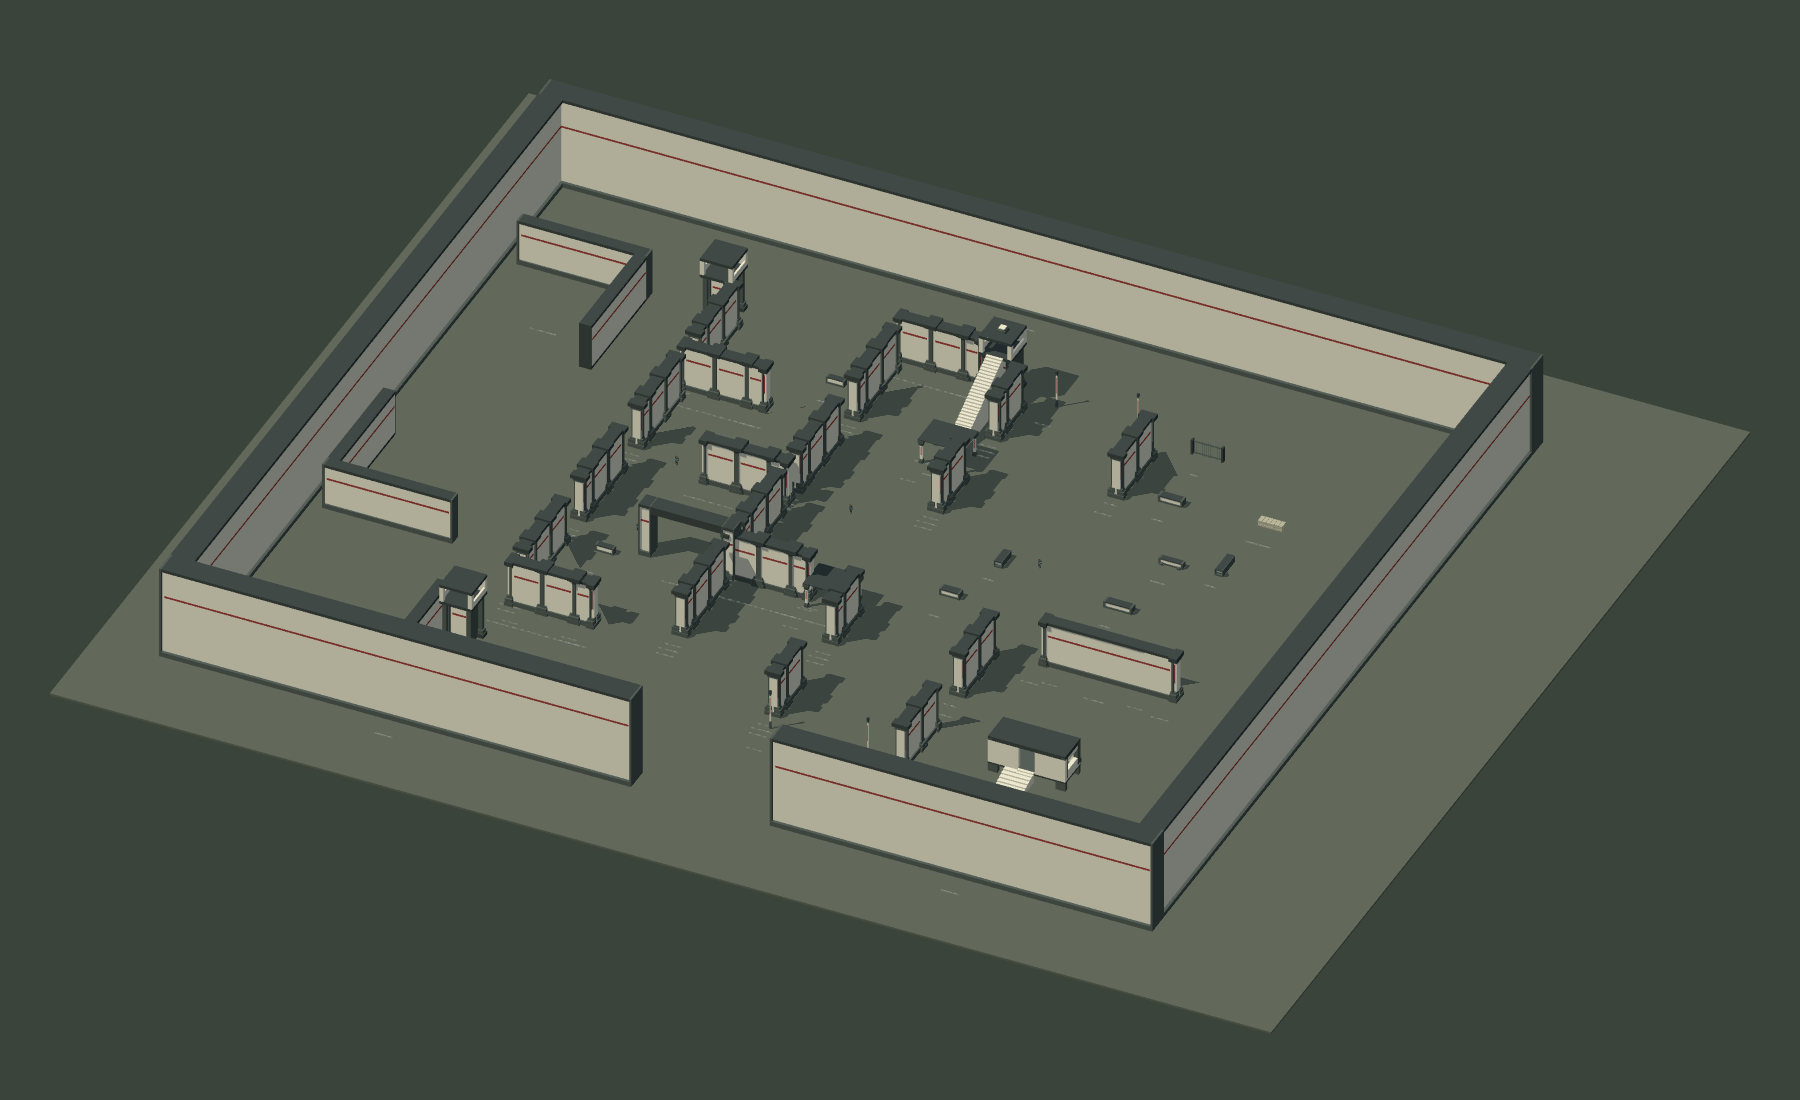
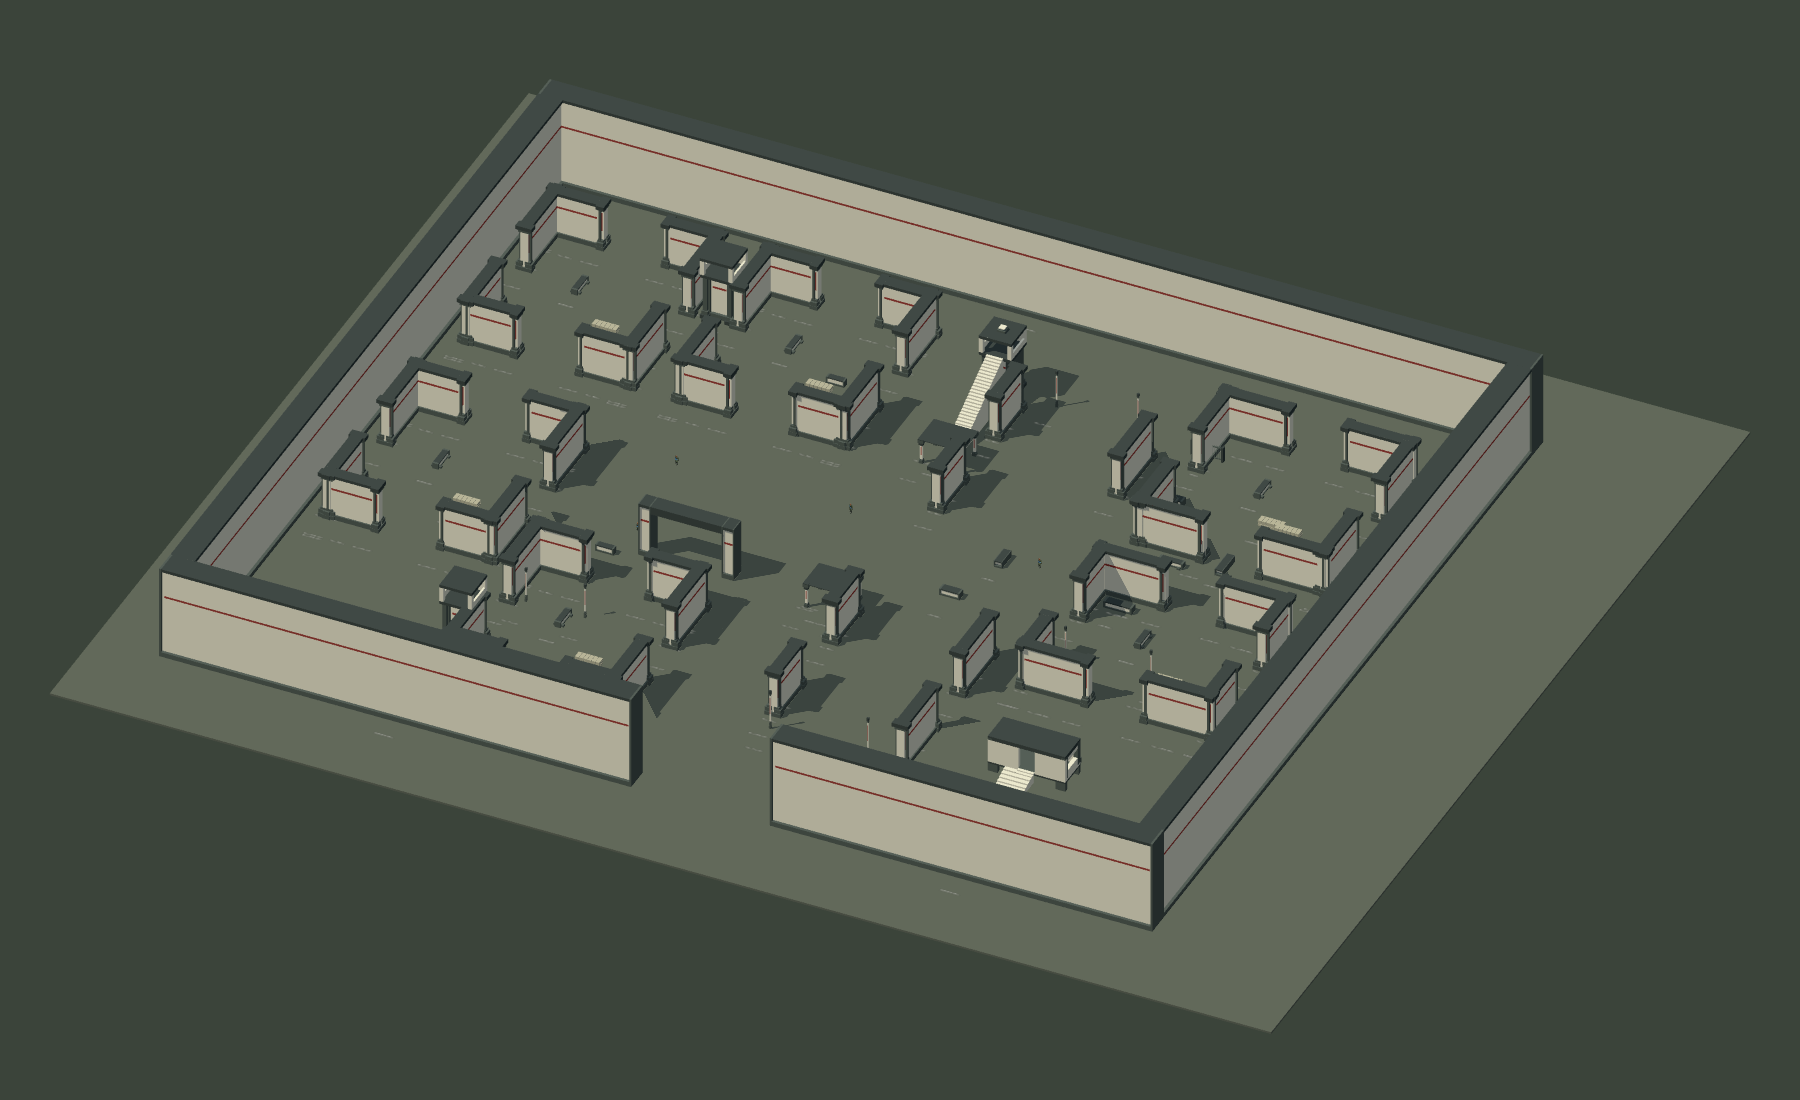
Compose Highwall courtyard encounters and document modular map workflow

Changed region(s): [[0.1556, 0.1545, 0.56, 0.6491], [0.56, 0.34, 0.8089, 0.68]]

diff --git a/src/data/highwall.js b/src/data/highwall.js
@@ -23,28 +23,40 @@ export function highwallLayout({gateClosed=true,revision=1}={}){
  };
  const wall=(id,x,z,length,axis='z')=>{
   const halves=Math.max(1,Math.round(length/16)),total=halves*16;let along=-total/2,index=0;
-  while(along<total/2){const span=total/2-along>=128?128:Math.min(32,total/2-along),center=along+span/2;
-   place(`${id}-${index++}`,span===128?'tall-long-wall':span===16?'tall-half-wall':'tall-wall',x+(axis==='x'?center:0),z+(axis==='z'?center:0),{height:HIGHWALL_HEIGHT,rotation:axis==='x'?0:90});
+  while(along<total/2){const span=Math.min(128,total/2-along),center=along+span/2;
+   place(`${id}-${index++}`,span>=64?'tall-long-wall':span===16?'tall-half-wall':'tall-wall',x+(axis==='x'?center:0),z+(axis==='z'?center:0),{span,height:HIGHWALL_HEIGHT,rotation:axis==='x'?0:90});
    along+=span;
    if(along<total/2)place(`${id}-support-${index}`,'tall-pillar',x+(axis==='x'?along:0),z+(axis==='z'?along:0),{height:HIGHWALL_HEIGHT+2,rotation:axis==='x'?0:90});
   }
   for(const side of[-1,1])place(`${id}-end-${side}`,'tall-end-cap',x+(axis==='x'?side*total/2:0),z+(axis==='z'?side*total/2:0),{height:HIGHWALL_HEIGHT,rotation:axis==='x'?0:90});
  };
- // Repeated vertical spines, with generous transverse junctions and loops.
- for(const [i,x]of[-286,-130].entries()){
-  for(const[j,z]of[-220,-100,20,140].entries()){
-   wall(`spine-${i}-${j}`,x,z,72);
+ // Courtyard circuit: four exits per room, offset cover, and long outer flanks.
+ const courtyards=[
+  {id:'west-watch',x:-410,z:-230,width:160,depth:180},
+  {id:'north-yard',x:-200,z:-230,width:160,depth:180},
+  {id:'west-market',x:-410,z:60,width:160,depth:180},
+  {id:'south-rally',x:-210,z:230,width:160,depth:180},
+  {id:'motor-yard',x:270,z:-210,width:180,depth:180},
+  {id:'east-crossing',x:270,z:40,width:180,depth:160},
+ ];
+ for(const court of courtyards){
+  const {id,x,z,width,depth}=court,gap=64;
+  for(const side of[-1,1])for(const end of[-1,1]){
+   const run=(width-gap)/2;
+   wall(id+'-front-'+side+'-'+end,x+end*(gap/2+run/2),z+side*depth/2,run,'x');
+   const leg=(depth-gap)/2;
+   wall(id+'-side-'+side+'-'+end,x+side*width/2,z+end*(gap/2+leg/2),leg);
   }
+  // Two offset islands break the direct center shot but leave multiple approaches.
+  place(id+'-cover-a','barricade',x-24,z-24,{rotation:90});
+  place(id+'-cover-b','sandbag-barrier',x+24,z+24);
  }
- for(const [i,[x,z,len]]of[[-247,-160,78],[-169,-40,78],[-91,80,78],[-247,200,78],[-91,-280,78]].entries())wall(`cross-${i}`,x,z,len,'x');
  // Armored north/south lane and wide crossing: physical screens leave exits.
  for(const z of[-230,-110,110,230])wall(`lane-west-${z}`,-4,z,52);
  for(const z of[-205,125,245])wall(`lane-east-${z}`,132,z,66);
- wall('field-screen',245,80,126,'x');
+
  // Perimeter and watchtower kit establish a compound, rather than isolated test panels.
  // Tower windows are real openings between authored posts; these have no scripted guards.
- // Spacious western extension: large right-angle rooms with alternating exits.
- for(const [i,[x,z,rotation]] of [[-436,-210,0],[-436,80,180],[-270,320,180]].entries())place('large-corner-'+i,'tall-long-corner',x,z,{height:HIGHWALL_HEIGHT,rotation});
  // Outer perimeter is twice main-wall height and long-panel length.
  // South access remains an explicit 128u opening, never an invisible border.
  const border=(id,x,z,span,rotation=0)=>place(id,'border-wall',x,z,{span,height:HIGHWALL_HEIGHT*2,rotation});
@@ -79,7 +91,7 @@ export function highwallLayout({gateClosed=true,revision=1}={}){
  if(gateClosed)box('service-gate',-169,80,70,6,HIGHWALL_HEIGHT,0,'gate');
  const signs=[
   {text:'HIGHWALL',sub:'COMBINED ARMS / SECTOR 01',x:50,z:275,y:29,w:100},
-  {text:'01 / LABYRINTH',sub:'INFANTRY LOOPS',x:-247,z:194,y:29,w:62},
+  {text:'01 / LABYRINTH',sub:'COURTYARD CIRCUIT',x:-247,z:194,y:29,w:62},
   {text:'02 / ARMORED',sub:'CONNECTED THROUGH ROUTE',x:66,z:-272,y:29,w:84},
   {text:'03 / SHELTER',sub:'INFANTRY ONLY',x:-28,z:62,y:18,w:35},
   {text:'04 / OPEN SKY',sub:'AIR APPROACH / EXPOSED',x:240,z:75,y:30,w:88},
@@ -87,9 +99,10 @@ export function highwallLayout({gateClosed=true,revision=1}={}){
  // Freestanding route boards have physical supports, rather than floating in space.
  for(const [i,s]of signs.entries())for(const side of[-1,1])box(`sign-support-${i}-${side}`,s.x+side*(s.w/2-2),s.z,2,2,s.y+s.w/8,0,'post');
  for(const module of modules)pieces.push(...fortificationPlacement(module).solids);
- return {version:3,revision,seed:1701,bounds:{...HIGHWALL_BOUNDS},pieces,modules,signs,
+ return {version:4,revision,seed:1701,bounds:{...HIGHWALL_BOUNDS},pieces,modules,signs,courtyards,
+  spawnAreas:courtyards.map(c=>({id:c.id,x:c.x,z:c.z,radius:18,team:c.id==='south-rally'||c.id==='west-market'?0:1})),
   zones:[{id:'infantry',x:-169,z:-40,width:300,depth:490},{id:'armor',x:66,z:0,width:100,depth:570},{id:'air',x:233,z:-110,width:168,depth:320}],
-  blue:[{x:-247,z:240},{x:-229,z:240},{x:-247,z:222},{x:-229,z:222}],
-  red:[{x:-169,z:0},{x:-151,z:0},{x:-169,z:-18},{x:-151,z:-18}],
+  blue:[{x:-210,z:230},{x:-194,z:230},{x:-410,z:60},{x:-394,z:60}],
+  red:[{x:-200,z:-230},{x:-184,z:-230},{x:270,z:-210},{x:286,z:-210}],
   tank:{x:66,z:210},controlPost:{x:235,z:292},airStarts:[{x:212,y:90,z:200},{x:212,y:90,z:-215}],objective:{x:-169,z:140}};
 }

diff --git a/src/data/highwall-scenarios.js b/src/data/highwall-scenarios.js
@@ -17,6 +17,6 @@ export const HIGHWALL_SCENARIOS=Object.freeze({
  intercept:{title:'Flyer interception',goal:'Approach the opposing flyer above the eastern field.',soldiers:0,zombies:0},
 });
 export function zombieSpawns(count){
- const xs=[-188,-170,-152,-110,-92,-74,-266,-248],zs=[122,140,158,-10,8,26,-118,-100,-82,-250,-232,-214];
+ const xs=[-188,-170,-152,-110,-92,-74,-266,-248],zs=[122,110,158,-10,8,26,-118,-100,-82,-250,-232,-214];
  return Array.from({length:count},(_,i)=>({x:xs[i%xs.length],z:zs[Math.floor(i/xs.length)],sprinter:i%8===7}));
 }

diff --git a/skills/warworld-map-kit/SKILL.md b/skills/warworld-map-kit/SKILL.md
@@ -1,0 +1,32 @@
+---
+name: warworld-map-kit
+description: Author and revise War World battlefields from the shared fortification kit, with connected combat spaces, scenario spawns, matching collision and navigation, and visual/playtest evidence. Use for LEGO-style map production; does not imply building an editor UI.
+---
+
+# War World modular battlefield authoring
+
+Find the active War World checkout and read its AGENTS.md. Current integration checkout: D:/lsw/.worktrees/combat-release-review. Verify branch and local server identity before editing; do not assume another server uses this checkout.
+
+## Source contracts
+- `src/data/fortification-kit.js`: authoritative module IDs, dimensions, recipes, sockets and physical solids. `fortificationPlacement` transforms geometry and metadata together.
+- `src/engine/fortification-kit.js`: exterior union renderer. Do not add nearly coplanar armor skins or decorative walls with different hidden collision.
+- `src/data/highwall.js`: authored placements, bounds, courtyards, spawn areas and initial actor positions.
+- `src/data/highwall-scenarios.js`: populations and scenario rules, separate from environment.
+- `src/engine/highwall-navigation.js`: actual support/ground routing. Missing routes are bugs or unsupported access, never justification for invisible waypoints or teleporting agents.
+
+## Build with the kit
+World scale is .19m/u. Standard wall length32u; half16u; long128u. Main height48u, depth12u. Border defaults256x96x24u. Use `tall-long-corner` for a right-angle L; the former rounded curve is rejected. Placements: `{id,moduleId,x,y,z,rotation,span?,height?,depth?}`. Rotations are quarter turns. Snap compatible sockets at equal positions with opposite normals; use `fortificationSocketsConnect` rather than visual guessing. Origins are ground-centered. Preserve stable IDs when revising existing maps.
+
+Gate/door closed and damaged variants block, open and destroyed variants clear the central passage. Authored variants do not implement automatic weapon damage transitions. The interactive service gate owns its moving collider separately; preserve that controller.
+
+## Compose encounters
+Sketch courtyard connections before placing details. Give major courtyards multiple exits, alternate flank loops and readable long sight lines. Break selected firing lines with offset lower cover; avoid blocking every center or making every lane identical. Keep vehicle routes connected with sufficient turning clearance. Keep infantry-only routes intentionally distinct. Flyers may cross wall tops; no invisible ceiling. Raised positions need actual stairs and enough headroom. Preserve the bunker, terminal, gate and scenario contracts unless the task requests relocation.
+
+Keep populations stable when enlarging geometry until performance and encounter pacing are measured. Spawn areas are data; actual squads must use valid points within them. Check every team, infected, vehicle and initial objective position against the new solids. Use restrained muster markings, not giant glowing spawn pads. Spawn areas alone do not constitute reinforcement scheduling or a spawn UI.
+
+## Required checks
+Run `node --test tools/highwall-courtyards.test.mjs tools/fortification-expansion.test.mjs tools/fortification-kit.test.mjs` for data/solid checks. Tests importing the game need `node --import ./tools/helpers/character-css-loader.mjs --test ...`. Test routes between all authored spawn areas and real stairs, plus gate invalidation. Rebuilding placements must regenerate collision, weapon/sight obstruction and navigation through existing Highwall rebuild.
+
+Capture a source-layout overview and current-character ground views. Label inspection views with concealment disabled; never present them as player-visibility proof. Use `tools/highwall-spacious-browser.mjs` as the existing isolated capture starting point. It currently assumes the local integration server on port5193; verify identity first.
+
+Then run native play checks for changes to encounters: traverse multiple routes, fire against new cover, follow AI pursuit using its sight/memory, cross walls in flight, and drive the designated lane if affected. Unit path success is not proof of fun, stable population performance or full gameplay acceptance. Report precisely which checks ran, what remains untested and where screenshots/data are saved. No player-facing map editor unless separately requested.

diff --git a/docs/HIGHWALL_COURTYARDS.md b/docs/HIGHWALL_COURTYARDS.md
@@ -1,0 +1,13 @@
+# Highwall courtyard pass
+
+Layout version 4 replaces the repeated maze spines with six connected spaces: West Watch, North Yard, West Market, South Rally, Motor Yard and East Crossing. Each has four openings and two offset cover islands. Long north/south flanks and the central armored route remain. Existing gate, bunker, tower stairs and 60ft perimeter remain.
+
+Actual Blue soldiers now start in South Rally and West Market. Red starts split between North Yard and Motor Yard. All six courtyard centers are exported as named spawnAreas for subsequent scenario authoring; no reinforcement UI or automatic reinforcement waves were added. Infected placements were checked through the 64-unit stress preset and moved off new walls. Population sizes are unchanged.
+
+The wall-chain builder now emits the largest fitting span up to128u instead of dividing each courtyard wall into32u panels. This reduced this layout from333 placements/2434 solids to223 placements/1719 solids. Those counts do not establish frame-rate performance.
+
+`skills/warworld-map-kit/SKILL.md` is the versioned map-making skill; an identical copy is installed at C:/Users/taskm/.codex/skills/warworld-map-kit/SKILL.md. It covers shared module recipes, sockets, clearances, connected courtyards, real spawns, scenario separation, navigation, source captures and native acceptance. The editor UI remains deferred.
+
+The courtyard tests verify all actual squad and infected starts are clear and every named courtyard is reachable through actual navigation geometry. The source overview is artifacts/highwall-spacious/module-lineup.png. It is an architecture inspection, not player sight. This is an encounter-layout proposal implemented in the game; whether its pacing feels fun still requires a combat play session.
+
+Validation: 14 focused tests and production build passed. Native Highwall run reached the actual tower deck and bunker floor through controlBot/Fighter.update, opened the live surveillance terminal with E, and saw a clear target900u away above the perimeter. No engine/page errors. Evidence: artifacts/highwall/courtyards-native/result.json. These checks do not replace a complete combat-pacing review.
